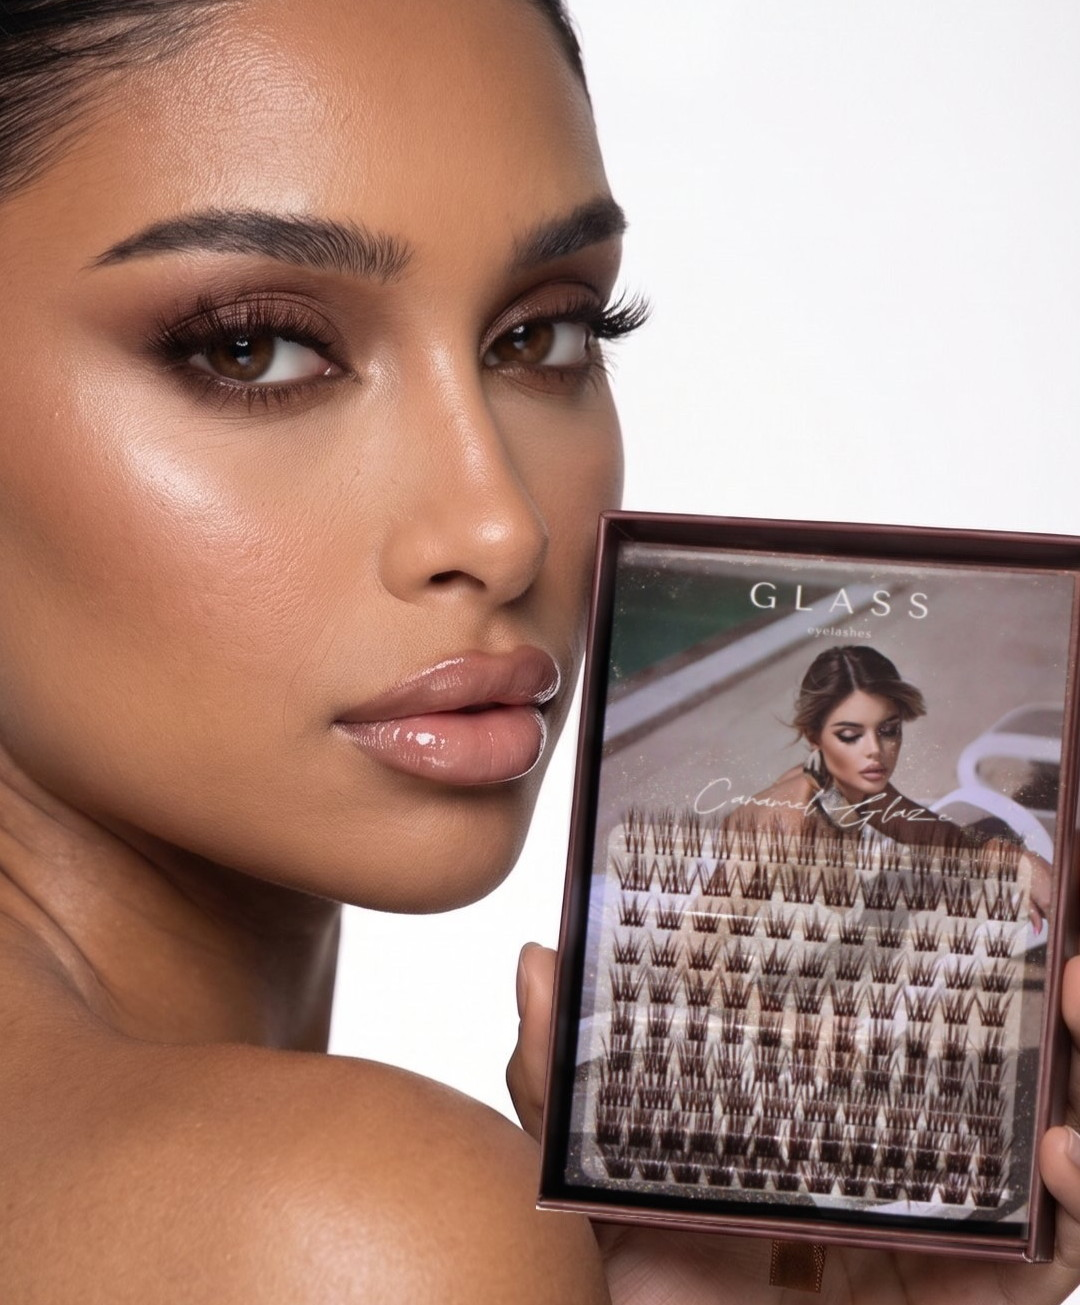
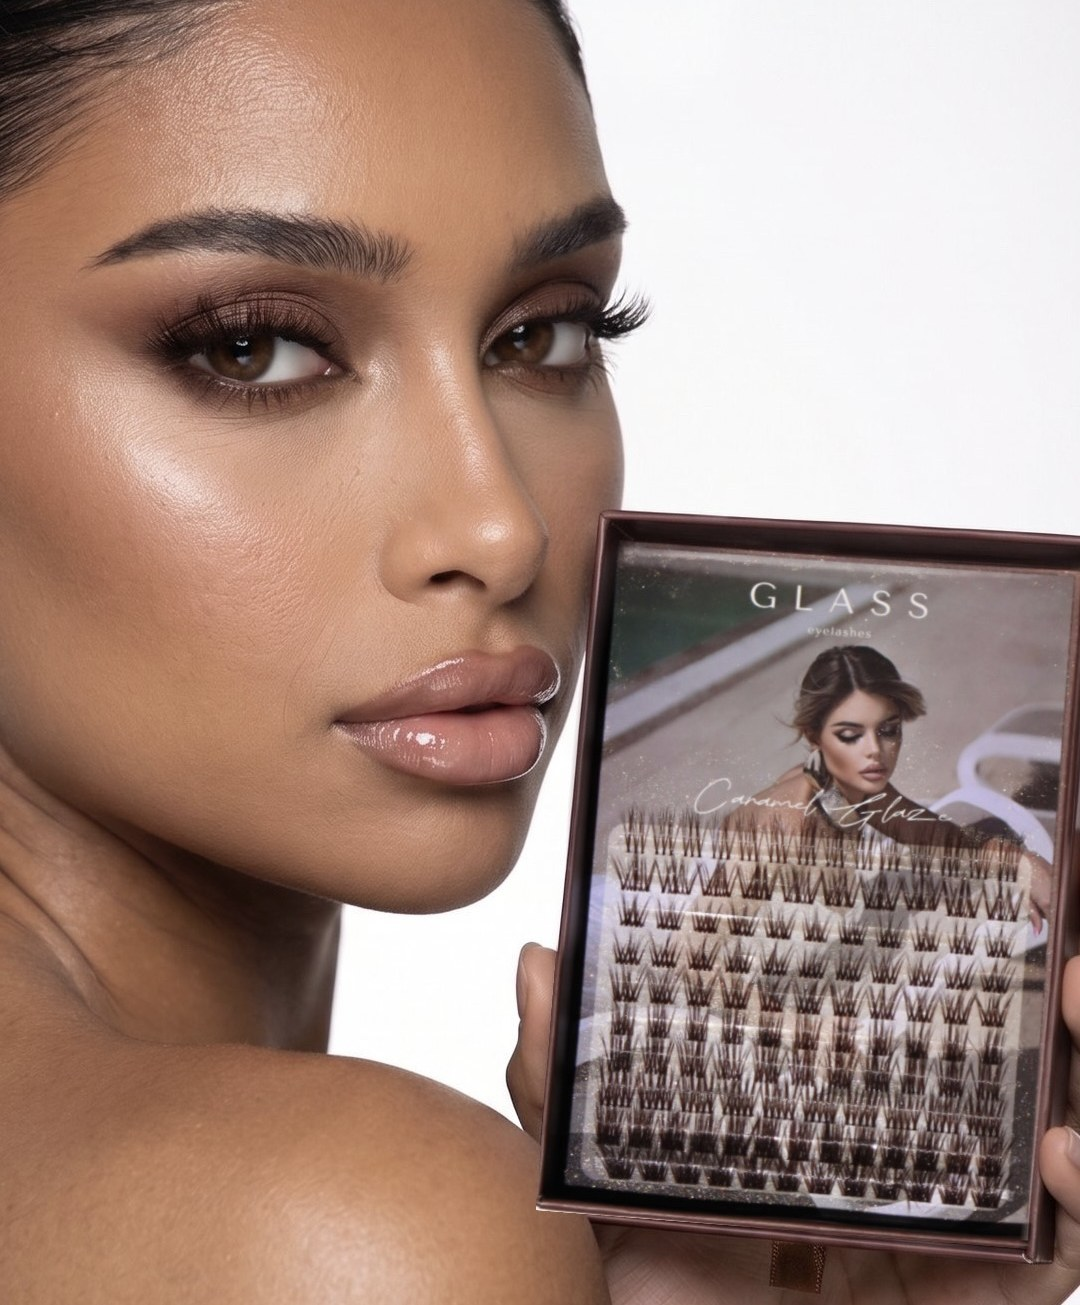
Модельная съёмка в исходном качестве
Четыре кадра заменены на менее пожатые исходники. Модель, кадр и вырезка у
каждого прежние — искал их не на глаз: перекрёстная корреляция по яркости
дала три точных совпадения (r = 1.000) и одно для героя (r = 0.9985 при
масштабе 1.000 и смещении на пиксель). То есть текущий кадр героя — верхние
1080×1305 нового файла, и вырезан он оттуда же, пиксель в пиксель.

Три лица выросли вдвое: 670×1000 → 1340×2000, 562×1000 → 1124×2000,
558×1000 → 1116×2000. Отношение сторон сохранено до пикселя, поэтому в
раскладке не сдвинулось ничего — CLS 0.000. На этих кадрах и был смысл
замены: в прежнем разрешении текстура ресниц, ради которой они стоят,
превращалась в пятно.

Герой остался 1080×1305: у нового файла то же разрешение, выиграли только на
сжатии. Позиция, масштаб и привязка по линии глаз не тронуты.

Новая модель встала в кадр блока «Категории». Это единственная модельная
фотография на сайте, которой не было в съёмке бренда — с русыми волосами на
чёрном фоне, чужая всему остальному ряду. Пустого поля под портрет в полный
рост на сайте нет: две оставшиеся рамки ждут пару «до и после» одного глаза
и фотографии настоящих покупательниц. Если кадр нужен в другом месте —
скажите, это одна строка.

Changed region(s): [[0.5194, 0.9195, 0.8861, 0.9502], [0.0917, 0.0, 0.2444, 0.0613], [0.0, 0.0613, 0.0306, 0.092]]

diff --git a/components/site/Hero.tsx b/components/site/Hero.tsx
@@ -58,9 +58,9 @@ export function Hero({ lang }: { lang: Locale }) {
   const [l1, l2] = t.home.heroLine.split('\n')
 
   const faces = [
-    { src: '/media/hero-portrait.jpg', w: 858, h: 1280 },
-    { src: '/media/editorial-1.jpg', w: 720, h: 1280 },
-    { src: '/media/editorial-2.jpg', w: 714, h: 1280 },
+    { src: '/media/hero-portrait.jpg', w: 1340, h: 2000 },
+    { src: '/media/editorial-1.jpg', w: 1124, h: 2000 },
+    { src: '/media/editorial-2.jpg', w: 1116, h: 2000 },
   ]
 
   return (

diff --git a/components/site/HomeBlocks.tsx b/components/site/HomeBlocks.tsx
@@ -419,8 +419,8 @@ export function CategoriesBlock({ lang }: { lang: Locale }) {
           <Image
             src="/media/categories.jpg"
             alt=""
-            width={900}
-            height={1200}
+            width={1200}
+            height={1600}
             sizes="(max-width: 1024px) 1px, 30vw"
           />
         </div>
